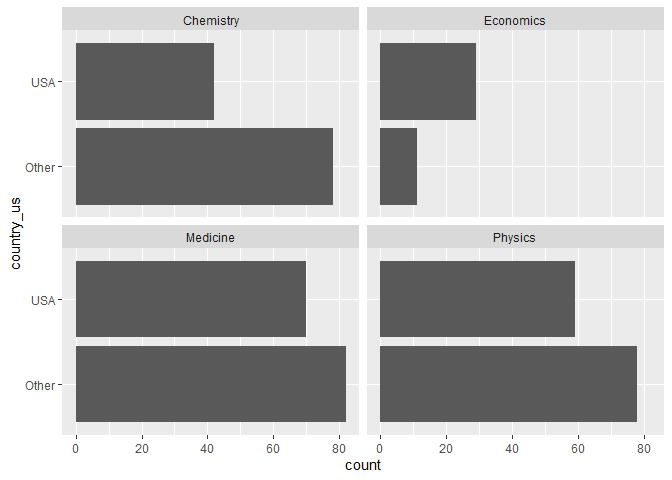
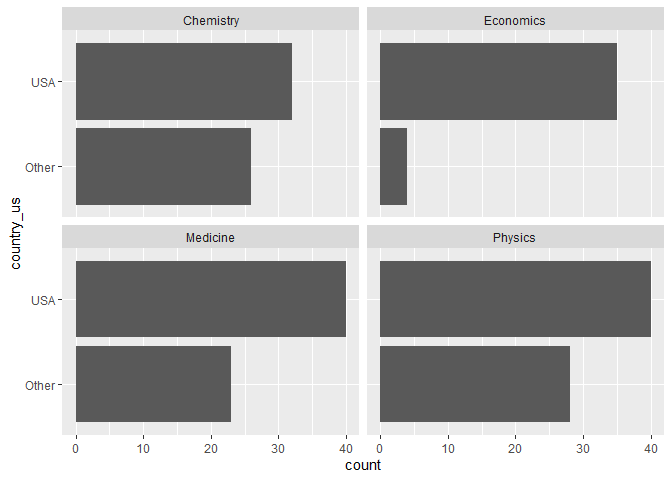
made changes to the code based on conversation with mason. Still need to change my explaination

diff --git a/lab-03.md b/lab-03.md
@@ -82,8 +82,8 @@ laureates who are still alive (their died_date is NA).”
 ``` r
 nobel_living <- nobel %>%
   filter(!is.na(country)) %>%
-  filter(!is.na(gender)) %>%
-  filter(!is.na(died_date))
+  filter(!(gender == "org")) %>%
+  filter(is.na(died_date))
 ```
 
 ### Exercise 3
@@ -187,20 +187,20 @@ nobel_living_science %>%
   arrange(desc(n))
 ```
 
-    ## # A tibble: 27 × 2
+    ## # A tibble: 21 × 2
     ##    born_country       n
     ##    <chr>          <int>
-    ##  1 Canada             8
-    ##  2 United Kingdom     8
-    ##  3 Poland             6
-    ##  4 France             4
-    ##  5 Hungary            4
-    ##  6 Italy              4
-    ##  7 Russia             4
-    ##  8 Austria            3
-    ##  9 Germany            3
-    ## 10 South Africa       3
-    ## # ℹ 17 more rows
+    ##  1 Germany            7
+    ##  2 United Kingdom     7
+    ##  3 China              5
+    ##  4 Canada             4
+    ##  5 Japan              3
+    ##  6 Australia          2
+    ##  7 Israel             2
+    ##  8 Norway             2
+    ##  9 Austria            1
+    ## 10 Finland            1
+    ## # ℹ 11 more rows
 
 This frequency table shows that Canada and the United Kingdom are
 equally the most common countries for laureates who won their prize in
